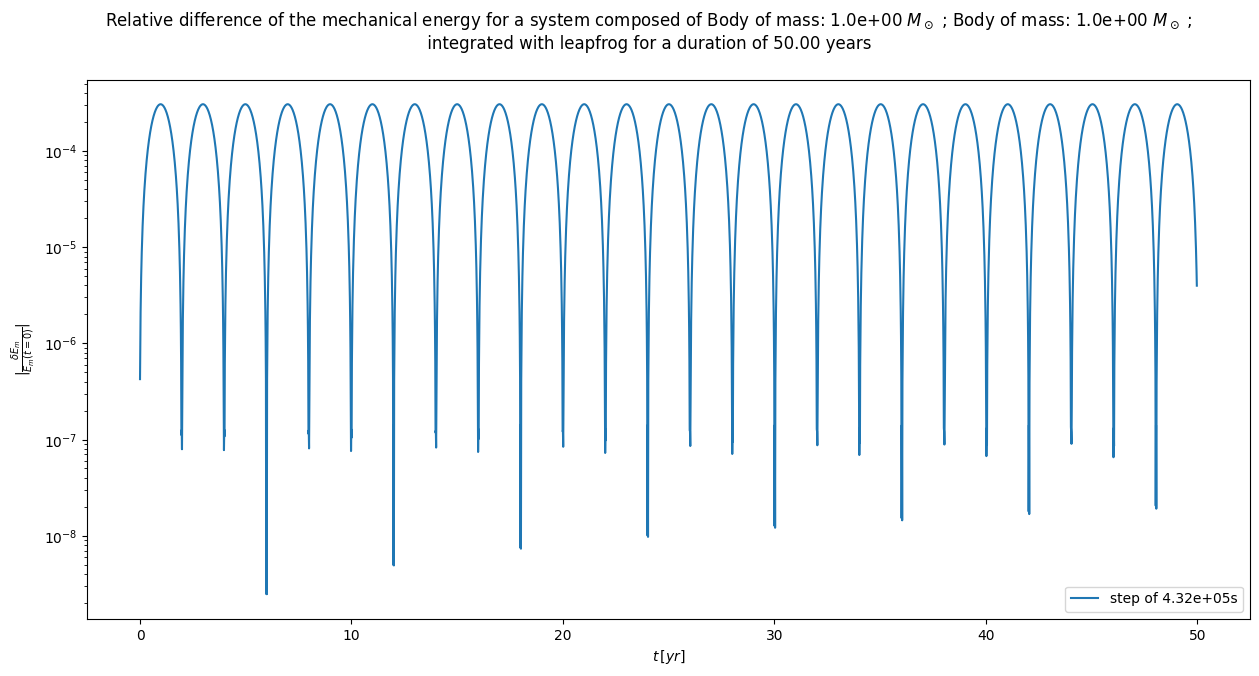
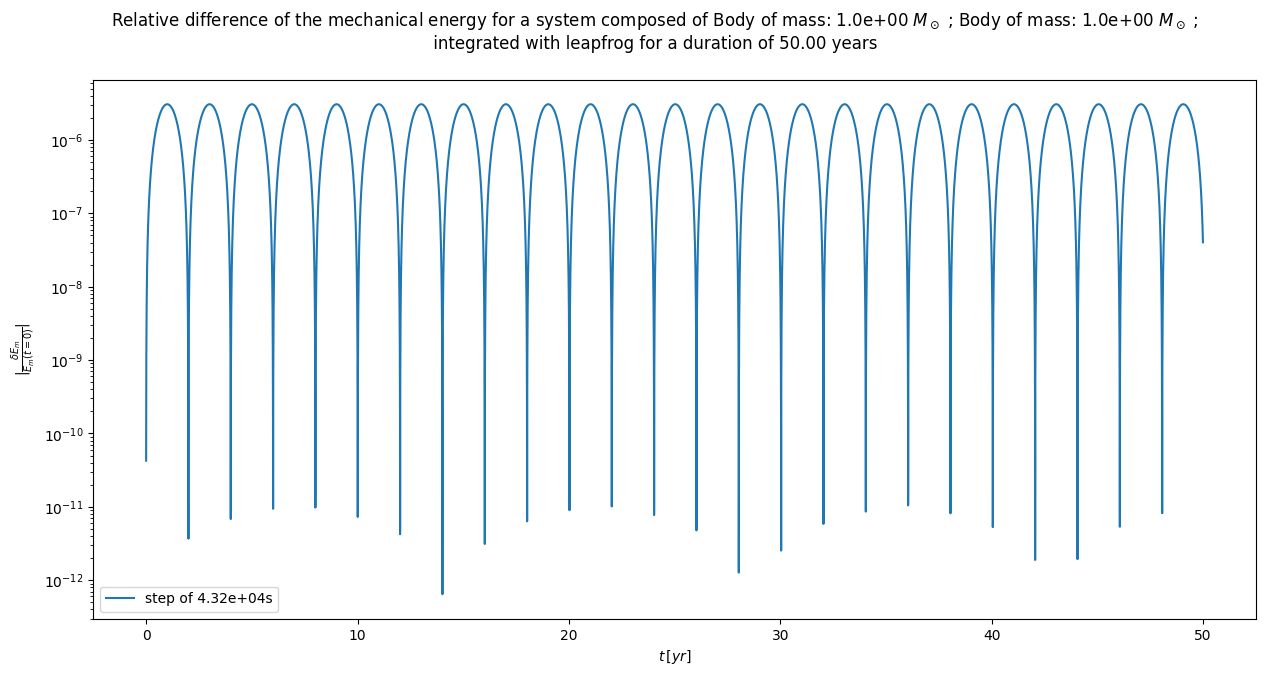
remove COMShift everywhere

diff --git a/lib/objects.py b/lib/objects.py
@@ -24,10 +24,10 @@ class Body:
         self.vp = np.zeros(3,dtype=np.longdouble)
 
     def __repr__(self): # Called upon "print(body)"
-        return r"Body of mass: {0:.1e} $M_\odot$, position: {1}, velocity: {2}".format(self.m/Ms, self.q, self.v)
+        return r"Body of mass: {0:.1e} $M_\odot$, position: {1}, velocity: {2}".format(self.m, self.q, self.v)
 
     def __str__(self): # Called upon "str(body)"
-        return r"Body of mass: {0:.1e} $M_\odot$".format(self.m/Ms)
+        return r"Body of mass: {0:.1e} $M_\odot$".format(self.m)
 
     @property
     def p(self):
@@ -67,19 +67,12 @@ class System(Body):
         zdata = np.array([body.q[2] for body in self.bodylist],dtype=np.longdouble)
         return xdata, ydata, zdata
 
-
-    def get_velocities(self): #return the positions of the bodies
-        vxdata = np.array([body.v[0] for body in self.bodylist],dtype=np.longdouble)
-        vydata = np.array([body.v[1] for body in self.bodylist],dtype=np.longdouble)
-        vzdata = np.array([body.v[2] for body in self.bodylist],dtype=np.longdouble)
-        return vxdata, vydata, vzdata
-
-
-    def get_momenta(self): #return the momenta of the bodies
-        pxdata = np.array([body.p[0] for body in self.bodylist],dtype=np.longdouble)
-        pydata = np.array([body.p[1] for body in self.bodylist],dtype=np.longdouble)
-        pzdata = np.array([body.p[2] for body in self.bodylist],dtype=np.longdouble)
-        return pxdata, pydata, pzdata
+    def get_positionsCOM(self): #return the positions of the bodies in the center of mass frame
+        COM = self.COM
+        xdata = np.array([body.q[0]-COM[0] for body in self.bodylist],dtype=np.longdouble)
+        ydata = np.array([body.q[1]-COM[1] for body in self.bodylist],dtype=np.longdouble)
+        zdata = np.array([body.q[2]-COM[2] for body in self.bodylist],dtype=np.longdouble)
+        return xdata, ydata, zdata
 
     @property
     def M(self): #return total system mass
@@ -149,29 +142,24 @@ class System(Body):
         return E
 
     @property
-    def LCOM(self): #return angular momentum in the center of mass of a binary system
-        #self.COMShiftBin()
-        LCOM = np.zeros(3,dtype=np.longdouble)
-        dr = self.bodylist[0].m/self.mu*self.bodylist[0].q#b
-        dv = self.bodylist[0].m/self.mu*self.bodylist[0].v#b
-        LCOM = self.mu*np.cross(dr,dv)
-
-        return LCOM
-
-    @property
-    def ECOM(self): #return mechanical energy in the center of mass of a binary system
-        #self.COMShiftBin()
-        dr = self.bodylist[0].m/self.mu*self.bodylist[0].q#b
-        dv = self.bodylist[0].m/self.mu*self.bodylist[0].v#b
-        ECOM = self.mu/2.*np.linalg.norm(dv)**2 - Ga*self.M*self.mu/np.linalg.norm(dr)
-
-        return ECOM
-
-    @property
-    def L(self): #return angular momentum of bodies in system
-        L = np.zeros(3,dtype=np.longdouble)
+    def ECOM(self): #return total energy of bodies in system in the center of mass frame
+        T, W = 0, 0
+        COM, COMV = self.COM, self.COMV
         for body in self.bodylist:
-            L = L + np.cross(body.q,body.p)
+            T = T + 1./2.*body.m*np.linalg.norm(body.v-COMV)**2
+            for otherbody in self.bodylist:
+                if body != otherbody:
+                    rij = np.linalg.norm(body.q-otherbody.q)
+                    W = W - Ga*body.m*otherbody.m/rij
+        E = T + W
+        return E
+
+    @property
+    def LCOM(self): #return angular momentum of bodies in system
+        L = np.zeros(3,dtype=np.longdouble)
+        COM, COMV = self.COM, self.COMV
+        for body in self.bodylist:
+            L = L + np.cross(body.q-COM,body.p-body.m*COMV)
         return L
 
     @property
@@ -186,6 +174,13 @@ class System(Body):
                     W = W - Ga*body.m*otherbody.m/rij
         E = T + W
         return E
+
+    @property
+    def L(self): #return angular momentum of bodies in system in the center of mass frame
+        L = np.zeros(3,dtype=np.longdouble)
+        for body in self.bodylist:
+            L = L + np.cross(body.q,body.p)
+        return L
 
     @property
     def eccCOM(self): #exentricity of two body sub system

diff --git a/lib/plots.py b/lib/plots.py
@@ -53,7 +53,7 @@ class DynamicUpdate():
 
         self.lines = []
         for i,body in enumerate(self.dyn_syst.bodylist):
-            x, y, z = body.q
+            x, y, z = body.q/au-self.dyn_syst.COM/au
             lines, = self.ax.plot([x],[y],[z],'o',color="C{0:d}".format(i),label="{0:s}".format(str(body)))
             self.lines.append(lines)
         self.lines = np.array(self.lines)
@@ -74,7 +74,7 @@ class DynamicUpdate():
             self.ax.set_zlabel('AU')
 
     def on_running(self, dyn_syst, step=None, label=None):
-        xdata, ydata, zdata = dyn_syst.get_positions()
+        xdata, ydata, zdata = dyn_syst.get_positionsCOM()
         values = np.sqrt(np.sum((np.array((xdata,ydata,zdata))**2).T,axis=1))/au
         self.min_x, self.max_x = -np.max([np.abs(values).max(),self.max_x]), np.max([np.abs(values).max(),self.max_x])
         self.set_lims()
@@ -134,30 +134,40 @@ def display_parameters(E,L,sma,ecc,phi,parameters,savename=""):
 
     fig3 = plt.figure(figsize=(15,7))
     ax3 = fig3.add_subplot(111)
-    ax3.plot(np.arange(sma[-1].shape[0])*step[-1]/yr, sma[-1]/au, label="a (step of {0:.2e}s)".format(step[-1]))
-    ax3.plot(np.arange(ecc[-1].shape[0])*step[-1]/yr, ecc[-1], label="e (step of {0:.2e}s)".format(step[-1]))
-    ax3.set(xlabel=r"$t \, [yr]$", ylabel=r"$a \, [au] \, or \, e$")
+    for i in range(len(E)):
+        ax3.plot(np.arange(E[i].shape[0])*step[-1]/yr, E[i], label="step of {0:.2e}s".format(step[i]))
+    ax3.set(xlabel=r"$t \, [yr]$", ylabel=r"$E \, [J]$")
     ax3.legend()
-    fig3.suptitle("Semi major axis and eccentricity "+title2)
-    fig3.savefig("plots/{0:s}a_e.png".format(savename),bbox_inches="tight")
-
+    fig3.suptitle("Mechanical energy of the whole system "+title2)
+    fig3.savefig("plots/{0:s}E.png".format(savename),bbox_inches="tight")
+    
     fig4 = plt.figure(figsize=(15,7))
     ax4 = fig4.add_subplot(111)
-    for i in range(len(E)):
-        ax4.plot(np.arange(E[i].shape[0])*step[-1]/yr, E[i], label="step of {0:.2e}s".format(step[i]))
-    ax4.set(xlabel=r"$t \, [yr]$", ylabel=r"$E \, [J]$")
+    for i in range(len(L)):
+        L2 = np.array([np.linalg.norm(Li)**2 for Li in L[i]])
+        ax4.plot(np.arange(L[i].shape[0])*step[i]/yr, L2, label=r"$L^2$ for step of {0:.2e}s".format(step[i]))
+    ax4.set(xlabel=r"$t \, [yr]$", ylabel=r"$\left|\vec{L}\right|^2 \, [kg^2 \cdot m^4 \cdot s^{-2}]$",yscale='log')
     ax4.legend()
-    fig4.suptitle("Mechanical energy of the whole system "+title2)
-    fig4.savefig("plots/{0:s}E.png".format(savename),bbox_inches="tight")
-    
+    fig4.suptitle("Squared norm of the kinetic moment of the whole system "+title2)
+    fig4.savefig("plots/{0:s}L.png".format(savename),bbox_inches="tight")
+
     fig5 = plt.figure(figsize=(15,7))
     ax5 = fig5.add_subplot(111)
-    for i in range(len(phi)):
-        ax5.plot(np.arange(phi[i].shape[0])*step[-1]/yr, phi[i], label="step of {0:.2e}s".format(step[i]))
-    ax5.set(xlabel=r"$t \, [yr]$", ylabel=r"$\phi \, [^{\circ}]$")
+    ax5.plot(np.arange(sma[-1].shape[0])*step[-1]/yr, sma[-1]/au, label="a (step of {0:.2e}s)".format(step[-1]))
+    ax5.plot(np.arange(ecc[-1].shape[0])*step[-1]/yr, ecc[-1], label="e (step of {0:.2e}s)".format(step[-1]))
+    ax5.set(xlabel=r"$t \, [yr]$", ylabel=r"$a \, [au] \, or \, e$")
     ax5.legend()
-    fig5.suptitle("Inclination angle of the perturbator's orbital plane "+title2)
-    fig5.savefig("plots/{0:s}phi.png".format(savename),bbox_inches="tight")
+    fig5.suptitle("Semi major axis and eccentricity "+title2)
+    fig5.savefig("plots/{0:s}a_e.png".format(savename),bbox_inches="tight")
+
+    fig6 = plt.figure(figsize=(15,7))
+    ax6 = fig6.add_subplot(111)
+    for i in range(len(phi)):
+        ax6.plot(np.arange(phi[i].shape[0])*step[-1]/yr, phi[i], label="step of {0:.2e}s".format(step[i]))
+    ax6.set(xlabel=r"$t \, [yr]$", ylabel=r"$\phi \, [^{\circ}]$")
+    ax6.legend()
+    fig6.suptitle("Inclination angle of the perturbator's orbital plane "+title2)
+    fig6.savefig("plots/{0:s}phi.png".format(savename),bbox_inches="tight")
     
     plt.show(block=True)
   

diff --git a/lib/hermite.py b/lib/hermite.py
@@ -69,7 +69,6 @@ def Correct(dyn_syst, dt):  # correct position and velocities of bodies in syste
 
 
 def HPC(dyn_syst, dt):  # update position and velocities of bodies in system with hermite predictor corrector
-    dyn_syst.COMShift()
     Update_a(dyn_syst)
     Update_j(dyn_syst)
     Predict(dyn_syst, dt)
@@ -89,17 +88,23 @@ def hermite(dyn_syst, bin_syst, duration, dt, recover_param=False, display=False
         d.launch(dyn_syst.blackstyle)
 
     N = np.ceil(duration / dt).astype(int)
-    E = np.zeros(N,dtype=np.longdouble)
-    L = np.zeros((N, 3),dtype=np.longdouble)
-    sma = np.zeros(N,dtype=np.longdouble)
-    ecc = np.zeros(N,dtype=np.longdouble)
-    phi = np.zeros(N,dtype=np.longdouble)
+    E = np.zeros(N+1,dtype=np.longdouble)
+    L = np.zeros((N+1, 3),dtype=np.longdouble)
+    sma = np.zeros(N+1,dtype=np.longdouble)
+    ecc = np.zeros(N+1,dtype=np.longdouble)
+    phi = np.zeros(N+1,dtype=np.longdouble)
 
-    for j in range(N):
+    E[0] = dyn_syst.ECOM
+    L[0] = dyn_syst.LCOM
+    sma[0] = bin_syst.smaCOM
+    ecc[0] = bin_syst.eccCOM
+    phi[0] = dyn_syst.phi
+
+    for j in range(1,N+1):
         HPC(dyn_syst, dt)
 
-        E[j] = dyn_syst.E
-        L[j] = dyn_syst.L
+        E[j] = dyn_syst.ECOM
+        L[j] = dyn_syst.LCOM
         sma[j] = bin_syst.smaCOM
         ecc[j] = bin_syst.eccCOM
         phi[j] = dyn_syst.phi

diff --git a/lib/LeapFrog.py b/lib/LeapFrog.py
@@ -27,7 +27,6 @@ def Kick(dyn_syst, dt):
 
 
 def LP(dyn_syst, dt):
-    dyn_syst.COMShift()
     Drift(dyn_syst, dt / 2)
     Kick(dyn_syst, dt)
     Drift(dyn_syst, dt / 2)
@@ -43,16 +42,23 @@ def leapfrog(dyn_syst, bin_syst, duration, dt, recover_param=False, display=Fals
         d.launch(dyn_syst.blackstyle)
 
     N = np.ceil(duration / dt).astype(int)
-    E = np.zeros(N,dtype=np.longdouble)
-    L = np.zeros((N, 3),dtype=np.longdouble)
-    sma = np.zeros(N,dtype=np.longdouble)
-    ecc = np.zeros(N,dtype=np.longdouble)
-    phi = np.zeros(N,dtype=np.longdouble)
-    for j in range(N):
+    E = np.zeros(N+1,dtype=np.longdouble)
+    L = np.zeros((N+1, 3),dtype=np.longdouble)
+    sma = np.zeros(N+1,dtype=np.longdouble)
+    ecc = np.zeros(N+1,dtype=np.longdouble)
+    phi = np.zeros(N+1,dtype=np.longdouble)
+
+    E[0] = dyn_syst.ECOM
+    L[0] = dyn_syst.LCOM
+    sma[0] = bin_syst.smaCOM
+    ecc[0] = bin_syst.eccCOM
+    phi[0] = dyn_syst.phi
+
+    for j in range(1,N+1):
         LP(dyn_syst,dt)
 
-        E[j] = dyn_syst.E
-        L[j] = dyn_syst.L
+        E[j] = dyn_syst.ECOM
+        L[j] = dyn_syst.LCOM
         sma[j] = bin_syst.smaCOM
         ecc[j] = bin_syst.eccCOM
         phi[j] = dyn_syst.phi

diff --git a/main.py b/main.py
@@ -12,9 +12,9 @@ from lib.units import *
 def main():
     #initialisation
     m = np.array([1., 1., 1e-1],dtype=np.longdouble)*Ms#/Ms  # Masses in Solar mass
-    a = np.array([1., 1., 10.],dtype=np.longdouble)/2.*au#/au   # Semi-major axis in astronomical units
+    a = np.array([1., 1., 10.],dtype=np.longdouble)*au#/au   # Semi-major axis in astronomical units
     e = np.array([0., 0., 0.25],dtype=np.longdouble)   # Eccentricity
-    psi = np.array([0., 0., 60.],dtype=np.longdouble)*np.pi/180.    # Inclination of the orbital plane in degrees
+    psi = np.array([0., 0., 80.],dtype=np.longdouble)*np.pi/180.    # Inclination of the orbital plane in degrees
 
     x1 = np.array([0., -1., 0.],dtype=np.longdouble)*a[0]*(1.+e[0])
     x2 = np.array([0., 1., 0.],dtype=np.longdouble)*a[1]*(1.+e[1])
@@ -27,7 +27,7 @@ def main():
     v = np.array([v1, v2, v3],dtype=np.longdouble)
 
     #integration parameters
-    duration, step = 5000*yr, np.array([30.*86400.],dtype=np.longdouble) #integration time and step in seconds
+    duration, step = 500*yr, np.array([30./1.*86400.],dtype=np.longdouble) #integration time and step in seconds
     step = np.sort(step)[::-1]
     integrator = "leapfrog"
     n_bodies = 3
